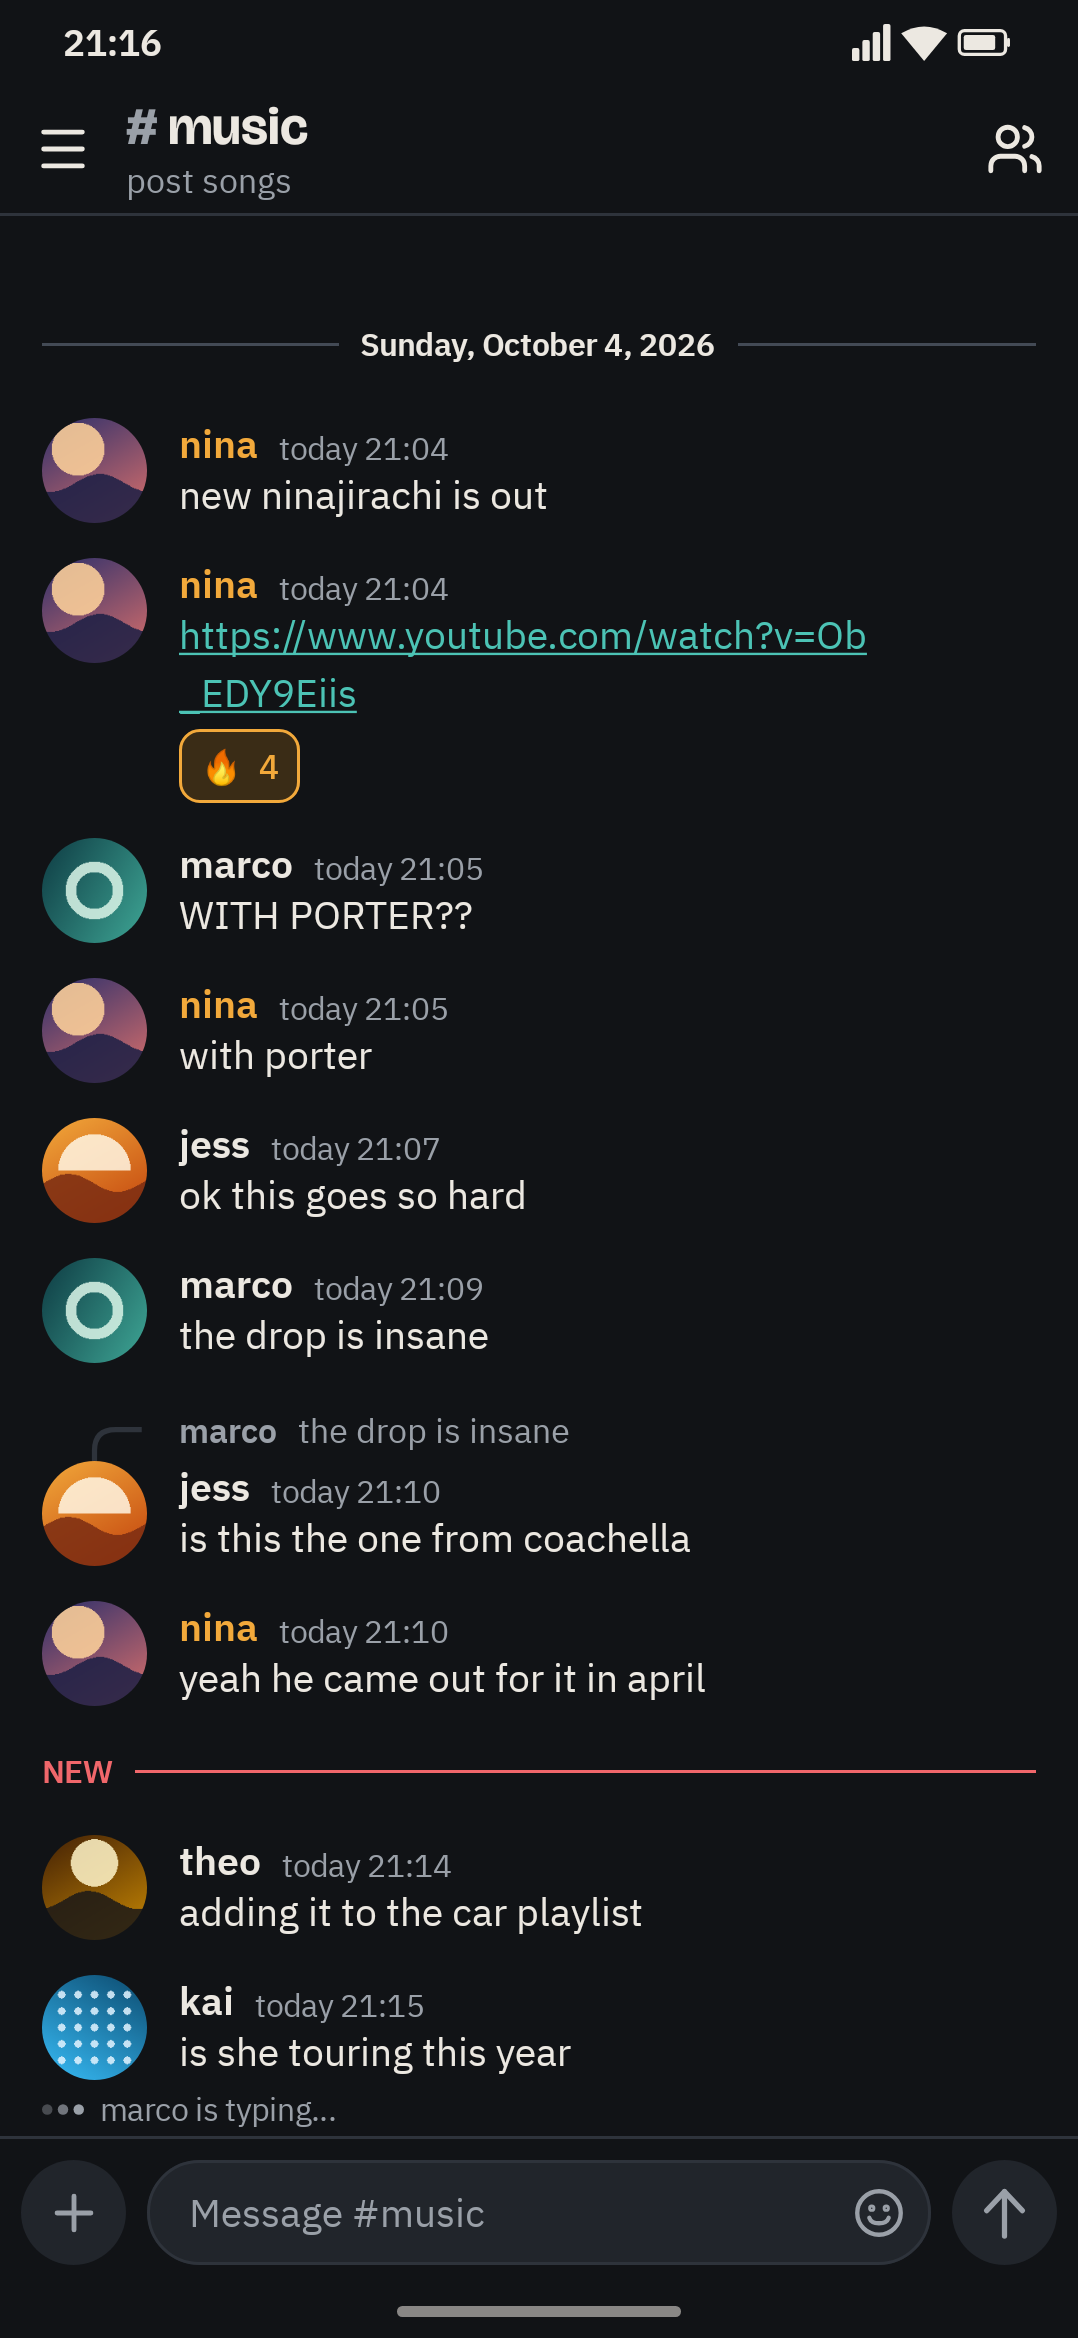
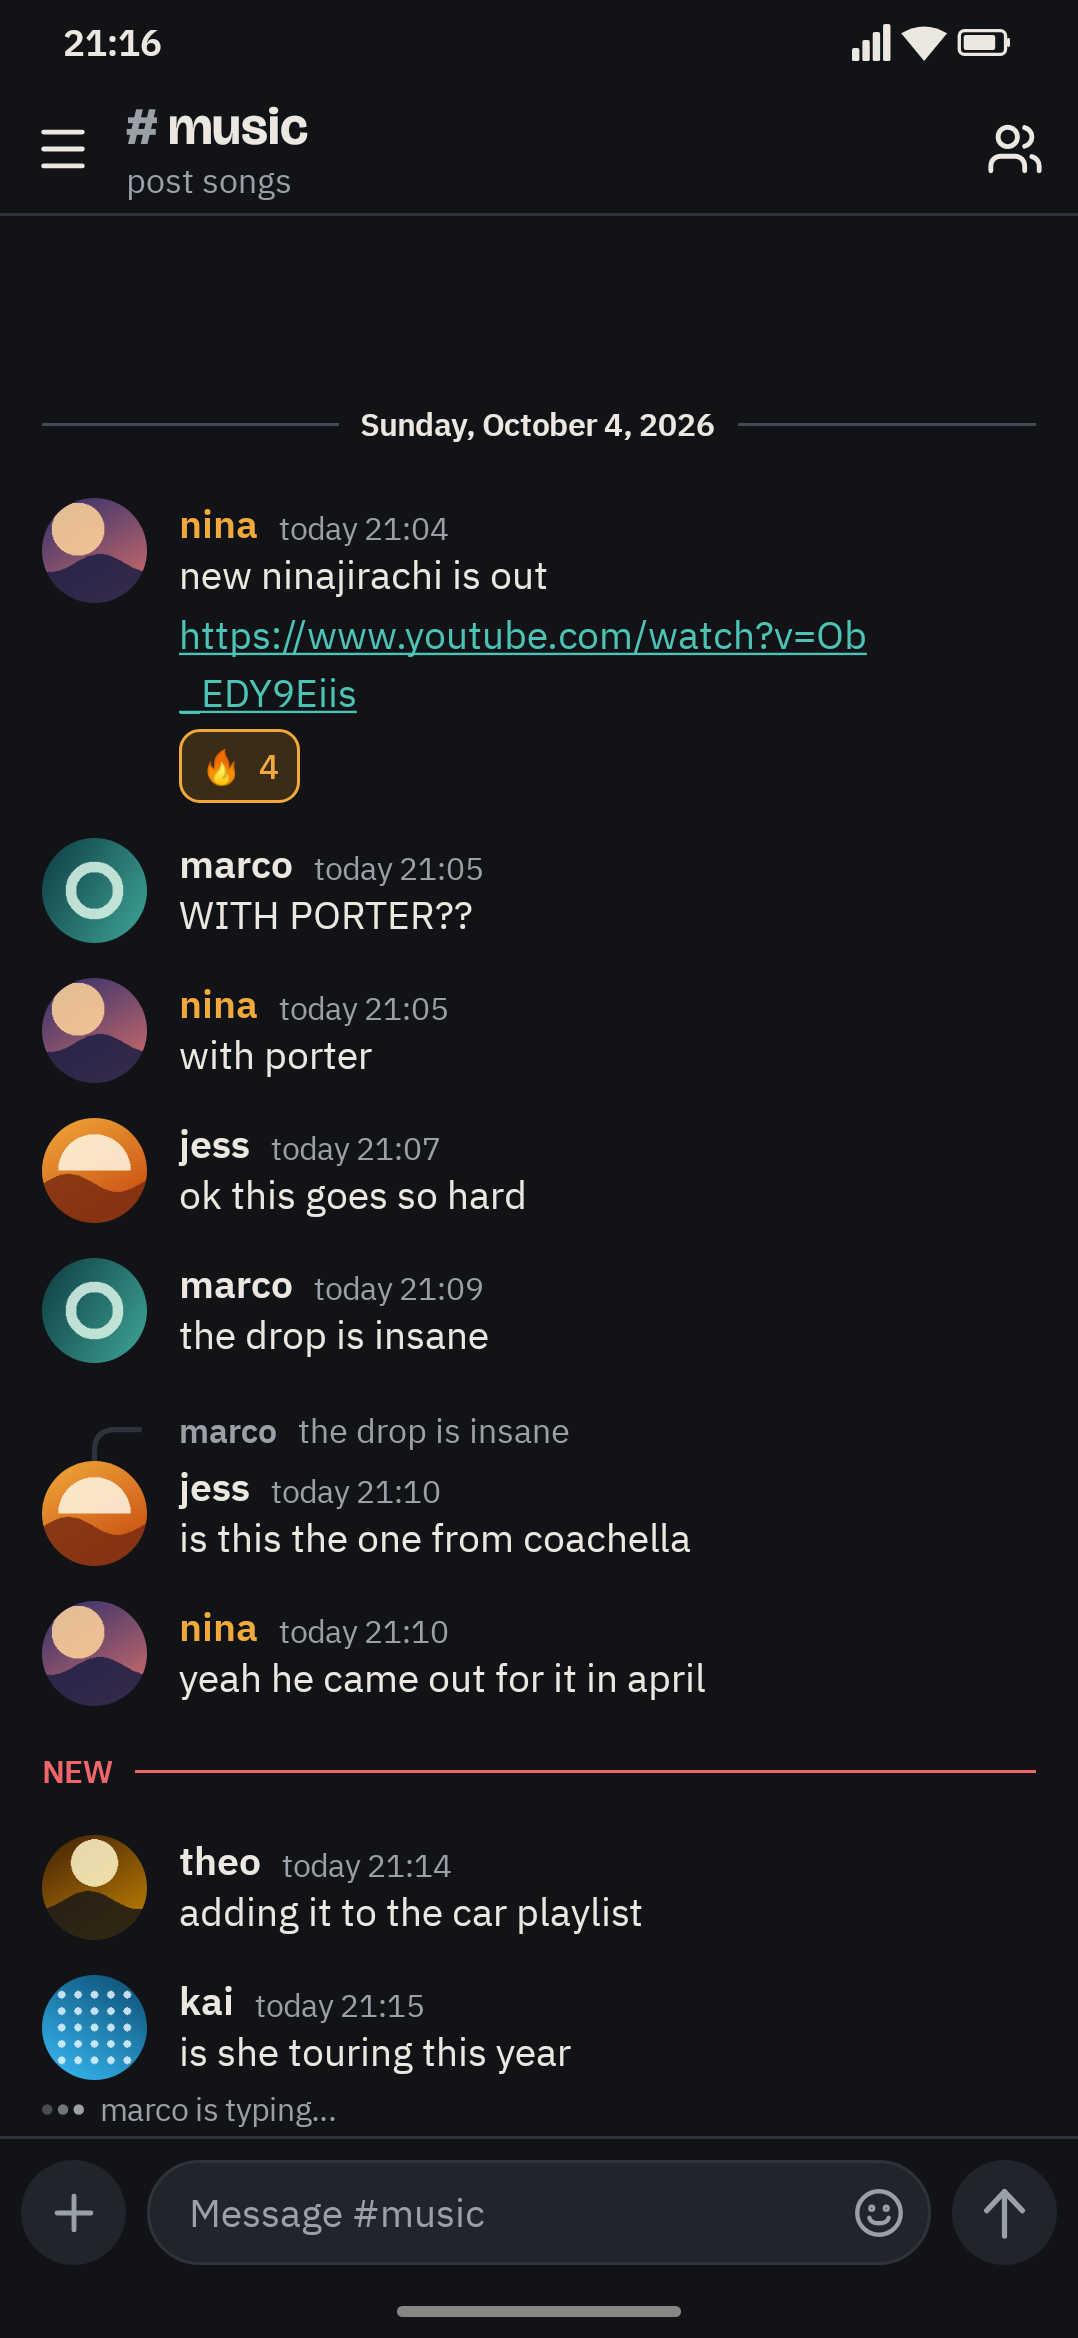
Group the showcase messages of one sender as the core does

Changed region(s): [[0.0306, 0.1249, 0.4286, 0.281], [0.4592, 0.1249, 0.551, 0.2186], [0.5816, 0.1249, 0.6429, 0.1873]]

diff --git a/chord-android/app/src/test/kotlin/space/foid/chord/ui/showcase/ShowcaseData.kt b/chord-android/app/src/test/kotlin/space/foid/chord/ui/showcase/ShowcaseData.kt
@@ -12,6 +12,7 @@ import space.foid.chord.ui.text.formatMessage
 import space.foid.chord.ui.timeline.MessageUi
 import space.foid.chord.ui.timeline.ReactionUi
 import space.foid.chord.ui.timeline.ReplyUi
+import space.foid.chord.ui.timeline.GROUP_GAP_MS
 import space.foid.chord.ui.timeline.clockLabel
 import space.foid.chord.ui.timeline.replySnippet
 import space.foid.chord.viewmodel.ProfileState
@@ -186,10 +187,13 @@ internal object ShowcaseData {
             replyTo: MessageUi? = null,
         ): MessageUi {
             val ts = at(hour, minute)
+            // The core flag: the same sender as the row before, and close in time.
+            val prev = out.lastOrNull()
+            val same = prev != null && prev.senderId == p.jid && ts - prev.timestamp < GROUP_GAP_MS
             val m = MessageUi(
                 id = "m:${out.size + 1}", senderId = p.jid, senderName = p.name, avatarUrl = null, body = body,
                 timestamp = ts, timeLabel = clockLabel(ts), stamp = "today ${clockLabel(ts)}", outgoing = p == nina,
-                sameSenderAsPrevious = false, edited = false, retracted = false, reactions = reactions,
+                sameSenderAsPrevious = same, edited = false, retracted = false, reactions = reactions,
                 reply = replyTo?.let { ReplyUi(it.id, it.senderName, replySnippet(it.body)) },
                 attachment = attachment,
                 formatted = formatMessage(body, palette, own, p.name),
